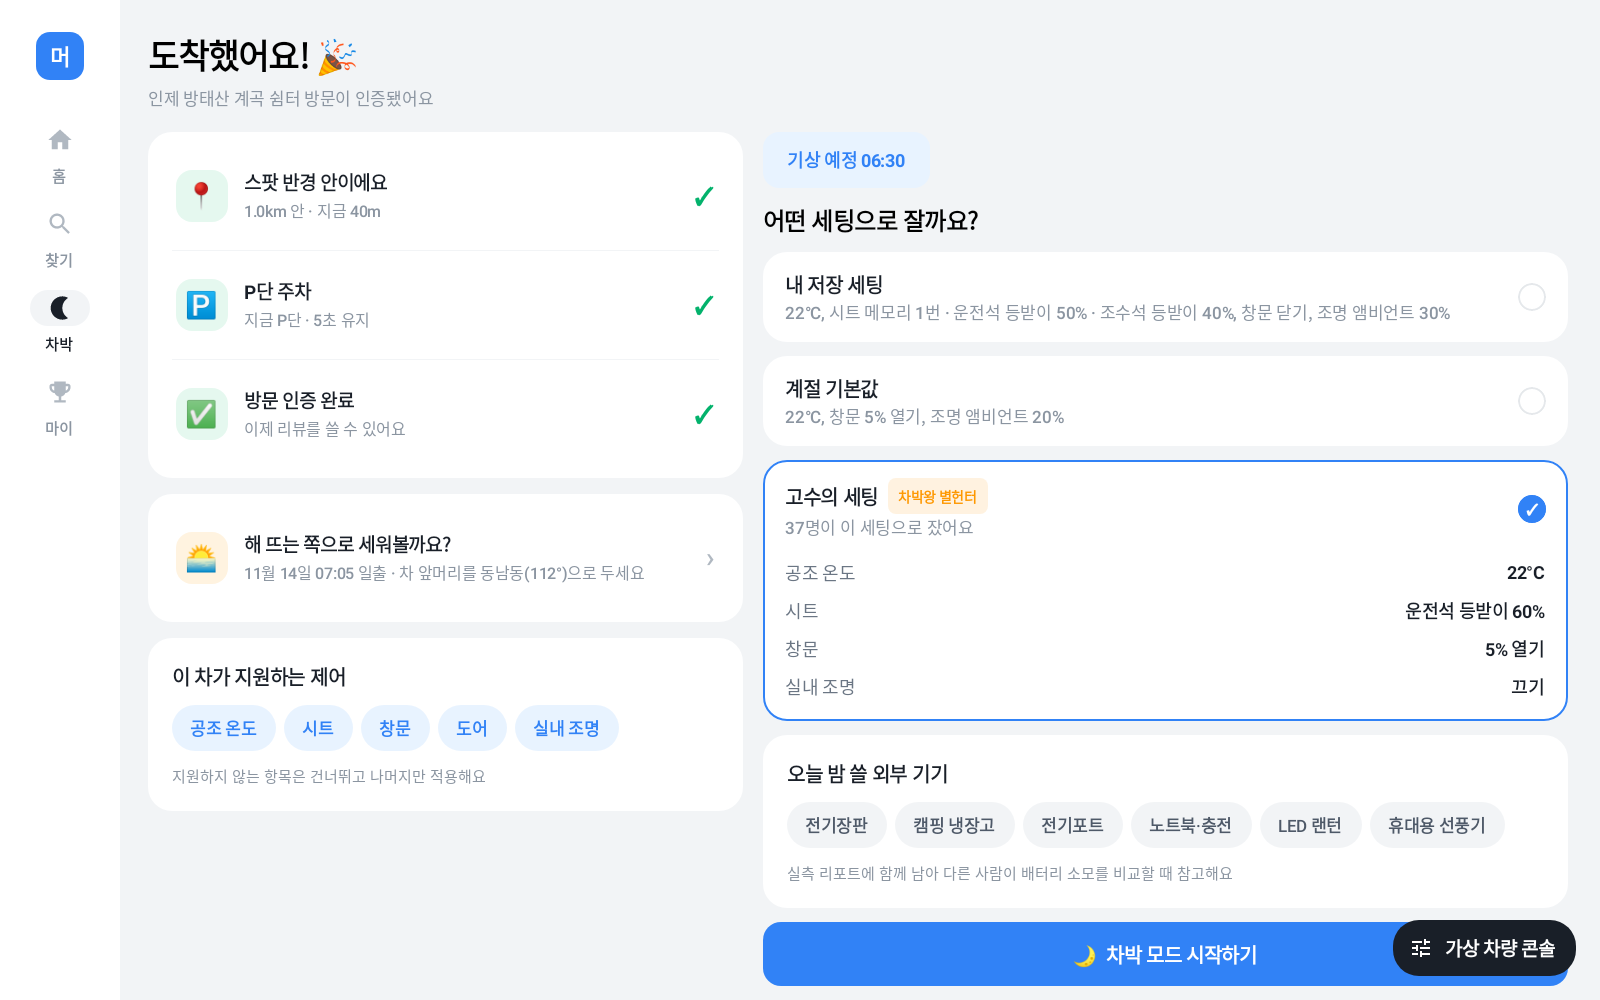
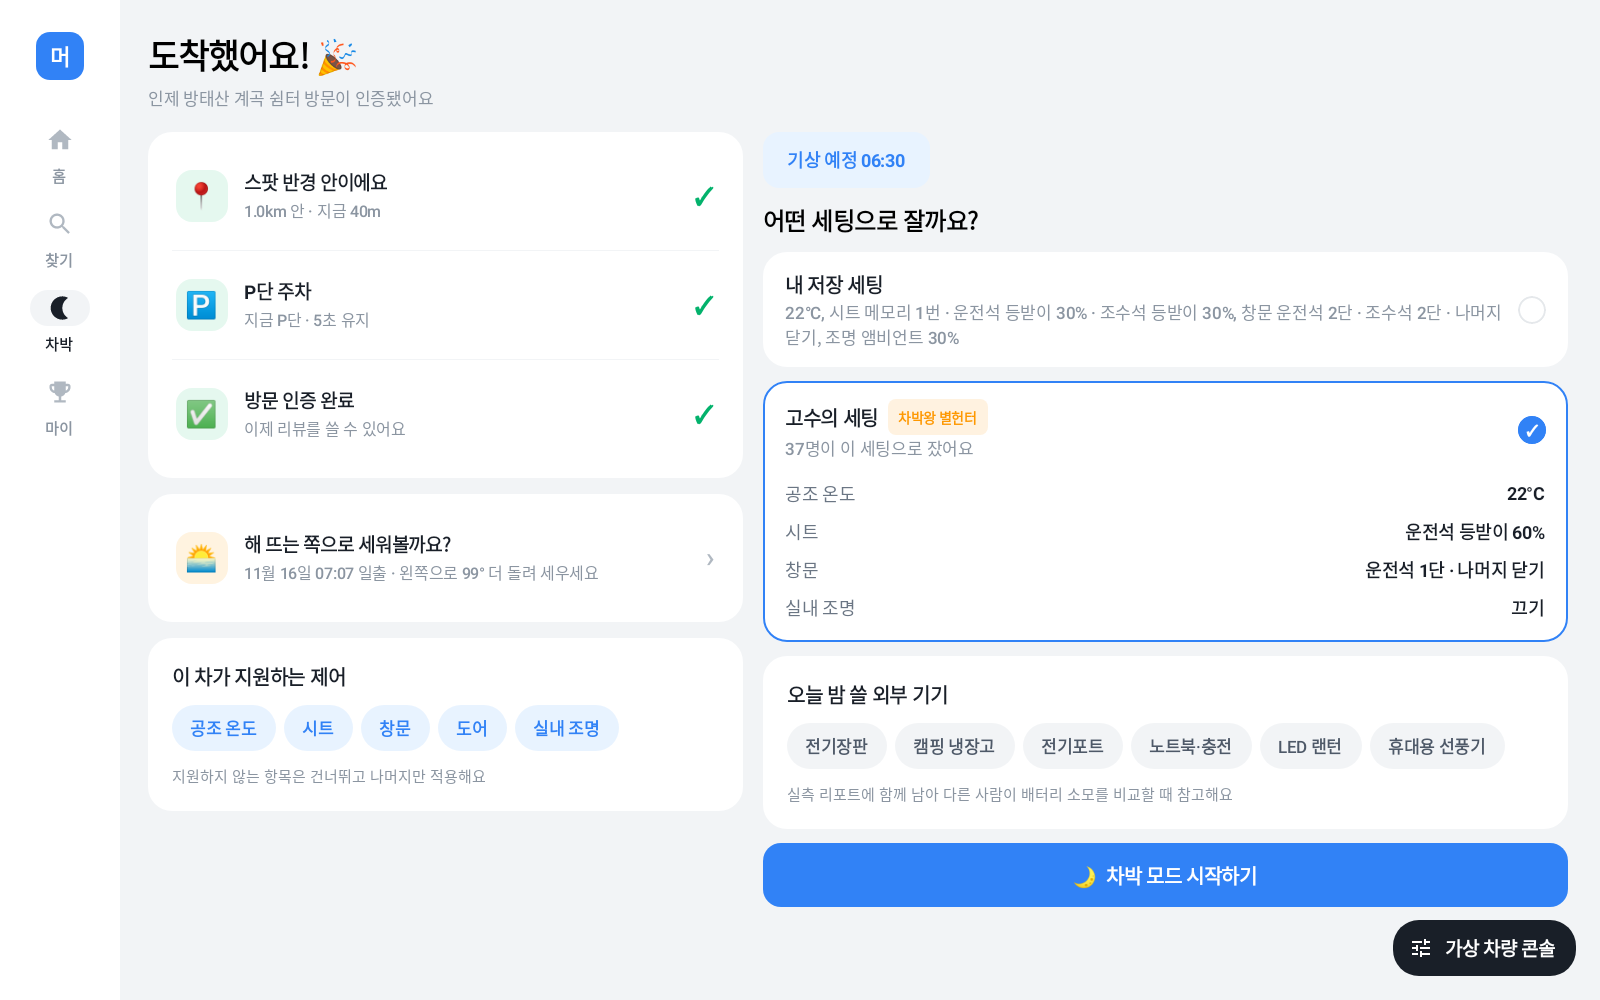
docs: 현재 시연 흐름으로 README 화면 캡처 갱신

diff --git a/README.md b/README.md
@@ -8,19 +8,19 @@
 
 ## 화면으로 보는 하룻밤
 
-아래는 일반 Android 기기에서도 실행할 수 있는 `mockDebug` 화면입니다. 차량 신호와 날씨, 이전 방문 기록은 시연용 데이터입니다.
+아래 화면은 [`71efb37`](https://github.com/KangJuSeong/meomunjari/commit/71efb3742cf765e2893a93f48848088a3e792e1a)의 `mockDebug` 앱에서 캡처했습니다. 차량 신호와 날씨, 방문 기록은 시연용 데이터입니다.
 
 | 내 차가 들어갈 수 있는 곳 찾기 | 출발 전에 도착·기상 잔량 확인하기 |
 | --- | --- |
 | ![찾기에서 반려견동반 태그와 차량 진입 필터를 선택한 화면](docs/images/spot-registration/tags.png) | ![방태산 상세에서 같은 시기의 차량 기록과 도착·기상 예상 잔량을 함께 보는 화면](docs/images/readme/departure.png) |
-| `#반려견동반` 같은 테마를 고르고 **내 차가 들어갈 수 있는 곳만** 켜면, 등록된 진입 가능 차급에 맞는 장소가 남습니다. | 방태산 예시에서는 **04:15 출발 25% → 05:25 도착 11% → 06:30 기상 9%**입니다. 왼쪽은 이 시기 방문 차량의 기록이고, 오른쪽은 내 차의 예상 잔량입니다. |
+| `#반려견동반` 같은 테마를 고르고 **내 차가 들어갈 수 있는 곳만** 켜면, 내 차가 진입할 수 있는 장소가 남습니다. 화면의 검색 결과는 장사항 방파제 공터를 포함해 6곳입니다. | 방태산의 11월 15일 전후 2주 기록은 18건입니다. 왼쪽에는 방문 날짜별 온도·소모량·차박 시간이 보입니다. 오른쪽은 배터리 25%로 출발하는 시연의 예상 잔량입니다. **04:15 출발 → 05:25 도착 11% → 06:30 기상 9%**. |
 
-난방을 켠 밤의 잔량은 2021 아이오닉 5 AWD 72.6 kWh 히트펌프 모델의 **외기 0°C·AUTO 22°C** 공개 시험값으로 추정합니다. 초기 난방 시간과 대기전력은 목업 가정입니다. 송지호처럼 조건에 맞는 자료가 부족한 곳은 도착 잔량까지만 계산하고 기상 잔량에는 **예측 자료 부족**을 표시합니다. [자료가 부족한 화면](docs/images/departure-direct/missing.png) · [난방 전력과 계산 근거](docs/hvac-power-research.md)
+난방을 켠 밤의 잔량은 2021 아이오닉 5 AWD 72.6 kWh 히트펌프 모델의 **외기 0°C·AUTO 22°C** 공개 시험값으로 추정합니다. 초기 난방 시간과 대기전력은 목업 가정입니다. 송지호처럼 조건에 맞는 자료가 부족한 곳은 도착 잔량까지만 계산하고 기상 잔량에는 **예측 자료 부족**을 표시합니다. [자료가 부족한 화면](docs/images/readme/missing.png) · [난방 전력과 계산 근거](docs/hvac-power-research.md)
 
 | 차박지까지 주행하기 | 일출을 볼 방향으로 주차하기 |
 | --- | --- |
-| ![주행 중 방태산까지 남은 거리, 예상 주행 시간, 도착 잔량만 크게 보이는 화면](docs/images/readme/driving.png) | ![앞유리로 일출을 볼 때 해 뜨는 방향과 권장 앞머리 방향을 표시한 나침반](docs/images/sunrise-windshield-v7-mock.png) |
-| **차박지로 길안내**를 누르면 선택한 스팟을 목적지로 삼습니다. 주행 중에는 남은 거리와 예상 주행 시간, 도착 잔량이 크게 보입니다. | 스팟에 도착하면 앞유리로 해를 볼지, 트렁크 쪽으로 볼지 고릅니다. 앱이 위치와 날짜로 일출 시각과 방위를 계산해 **차 앞머리를 둘 방향**을 알려줍니다. |
+| ![주행 중 방태산까지 남은 거리, 예상 주행 시간, 도착 잔량만 크게 보이는 화면](docs/images/readme/driving.png) | ![앞유리로 일출을 볼 때 해 뜨는 방향과 권장 앞머리 방향을 표시한 나침반](docs/images/readme/sunrise.png) |
+| **차박지로 길안내**를 누르면 선택한 스팟을 목적지로 삼습니다. 주행 중에는 남은 거리와 예상 주행 시간, 도착 잔량이 크게 보입니다. | 스팟에 도착하면 앞유리로 해를 볼지, 트렁크 쪽으로 볼지 고릅니다. 이 장면에서는 앞유리로 일출을 보기 위해 현재 앞머리 방향(남남서 212°)에서 **왼쪽으로 99°** 돌려 동남동 113°에 맞추도록 안내합니다. |
 
 | 먼저 다녀간 사람의 세팅 불러오기 | 차박 중 온도와 배터리 살펴보기 |
 | --- | --- |
@@ -30,7 +30,7 @@
 | 밤사이 기록 돌아보기 | 방문과 기여 기록 모아 보기 |
 | --- | --- |
 | ![차박 종료 리포트에 표시된 실내 온도와 배터리 소모, 예상과 실제 종료 잔량](docs/images/readme/review.png) | ![마이 화면에서 회원 등급과 뱃지별 진행도를 확인하는 모습](docs/images/readme/profile.png) |
-| 기록에 동의하고 측정값이 충분히 쌓이면 **어젯밤 리포트**가 생깁니다. 위 출발 예시와 별도로 진행한 이 시연은 약 20분 만에 마쳤습니다. 앱은 **기상 예상 38%**와 **종료 잔량 47%** 옆에 예정한 체류 시간과 실제 체류 시간이 다르다고 표시합니다. | 별점·후기·해시태그는 방문 인증 리뷰로 남깁니다. 스팟 상세에서는 오늘 기준 앞뒤 2주에 해당하는 방문별 외기·실내 온도, 배터리·연료 소모량과 차박 시간을 닉네임 없이 확인합니다. **마이**에서는 스팟 방문, 새 장소 등록, 리포트 작성으로 쌓인 뱃지와 등급을 확인합니다. |
+| 기록에 동의하고 측정값이 충분히 쌓이면 **어젯밤 리포트**가 생깁니다. 출발 화면과 별도로 찍은 이 시연에서는 예정한 기상 시각보다 일찍 차박을 마쳤습니다. 리포트에는 **06:30 기상 예상 45%**, **실제 종료 잔량 47%**, **체류 시간 20분**이 함께 표시됩니다. | 별점·후기·해시태그는 방문 인증 리뷰로 남깁니다. 스팟 상세에서는 오늘 기준 앞뒤 2주에 해당하는 방문별 외기·실내 온도, 배터리·연료 소모량과 차박 시간을 닉네임 없이 확인합니다. **마이**에서는 스팟 방문, 새 장소 등록, 리포트 작성으로 쌓인 뱃지와 등급을 확인합니다. |
 
 **휴대폰으로 사진과 상세 후기 작성하기** · 차박 종료 후 기어가 P일 때, 리뷰의 별점 아래에서 **사진·상세 후기 QR 보기**를 누르세요. [차량 화면](docs/images/readme/mobile-review-qr.png)의 QR을 휴대폰 카메라로 찍으면 [상세 후기 폼](https://meomunjari-review.startview.chatgpt.site/)이 열립니다. 사진을 최대 5장 고르고 별점과 글을 미리 볼 수 있습니다. 사진과 글은 서버로 보내지 않으며 새로고침하면 사라집니다. 방문 인증 리뷰는 차량 화면에서 등록합니다.
 
